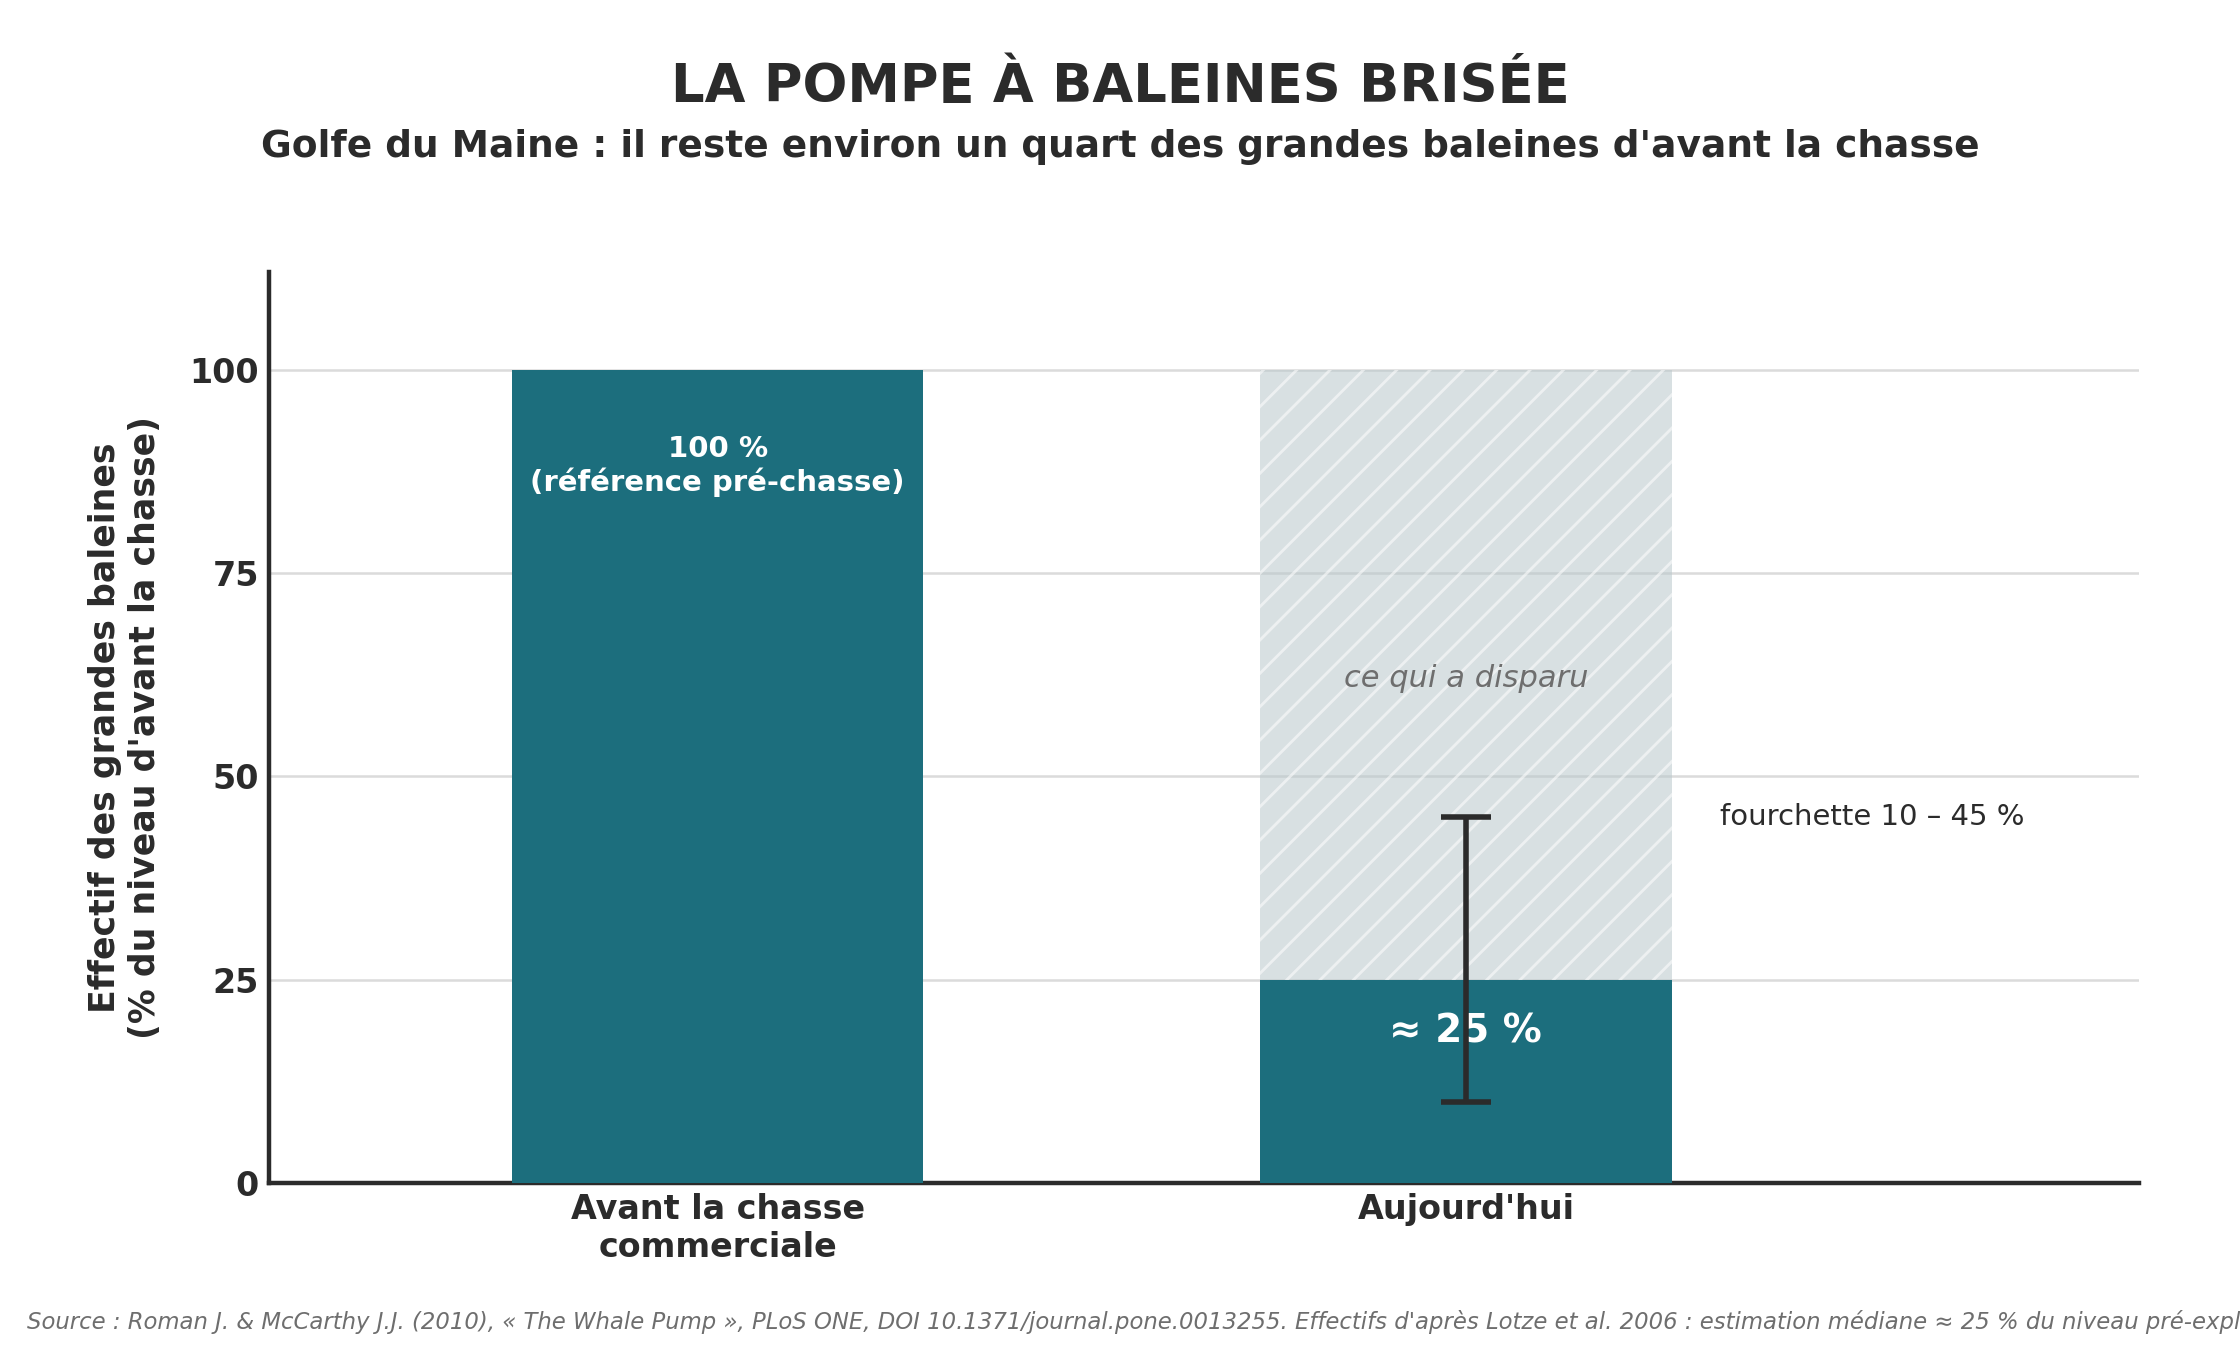
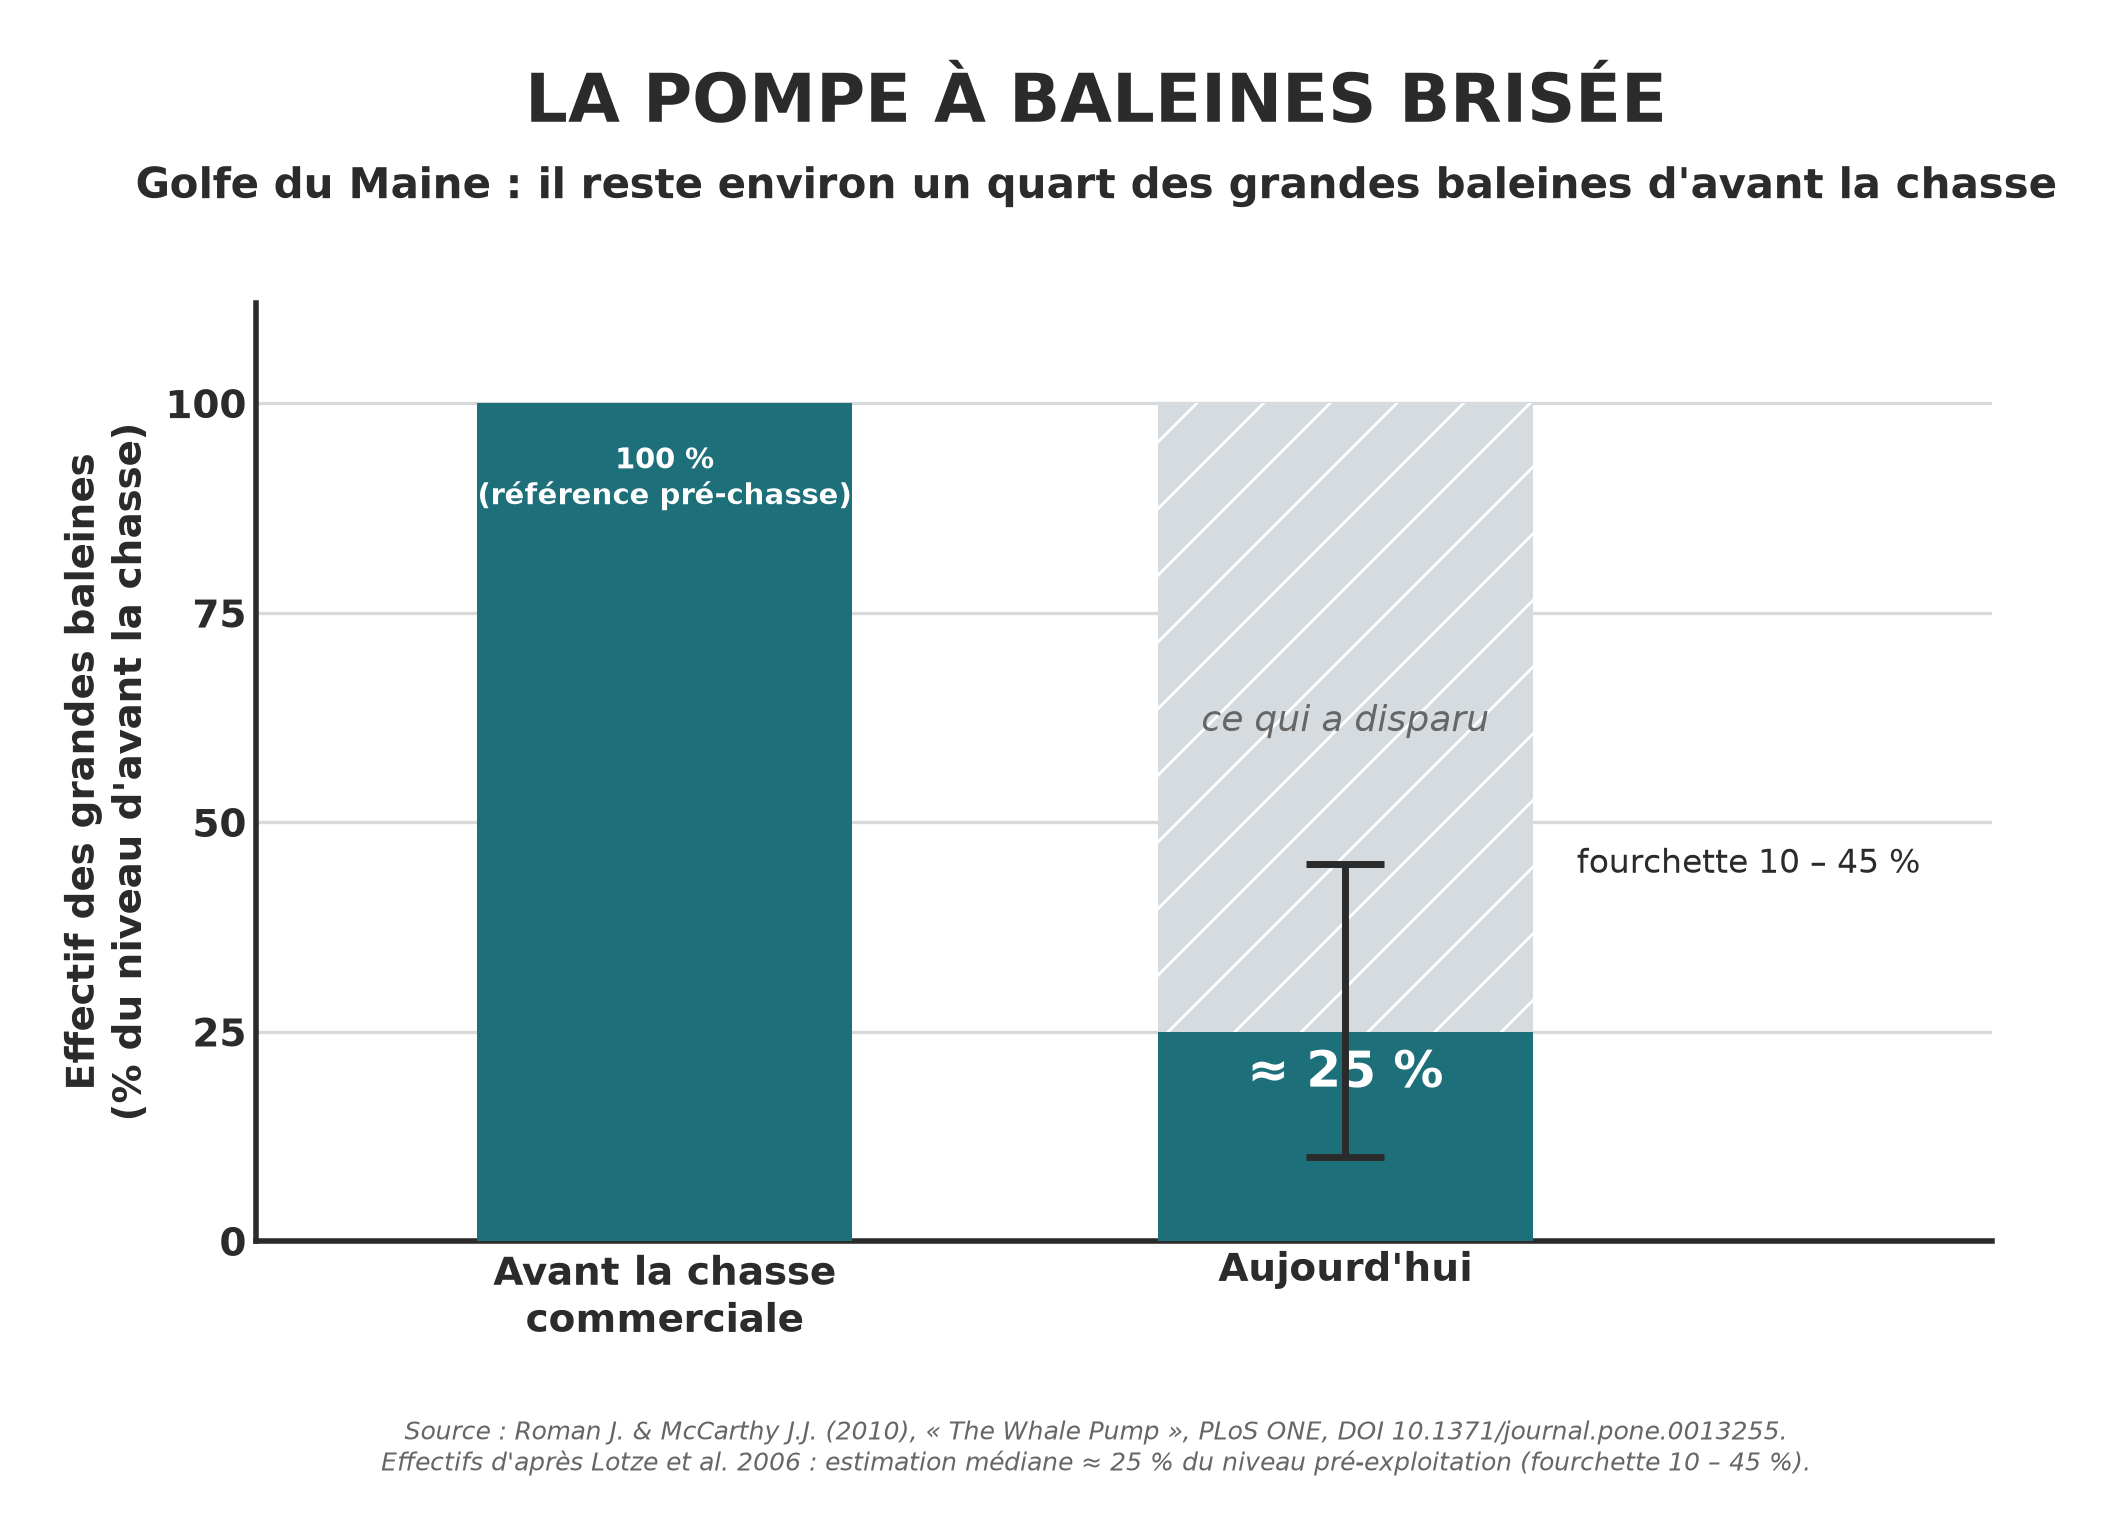
Recrée le graphique de la pompe à baleines avec la source complète

Changed region(s): [[0.0312, 0.2471, 1.0, 0.9882], [0.0624, 0.0309, 0.9669, 0.1544]]

diff --git a/phytoplancton.html b/phytoplancton.html
@@ -64,7 +64,7 @@
                 <h2>Contexte</h2>
 
                 <div class="graph-container">
-                    <img src="images/pompe_a_baleines.webp" width="2240" height="1360"
+                    <img src="images/pompe_a_baleines.webp" width="2116" height="1539"
                          alt="Effectif des grandes baleines dans le golfe du Maine : il reste environ 25 % du niveau d'avant la chasse commerciale. Source : Roman & McCarthy, 2010.">
                 </div>
 
